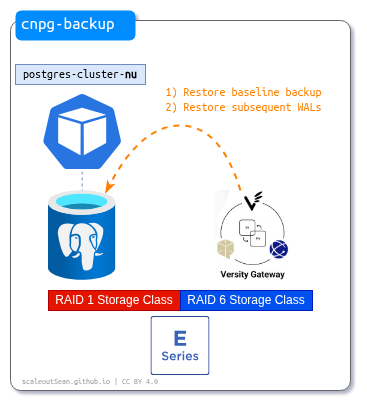
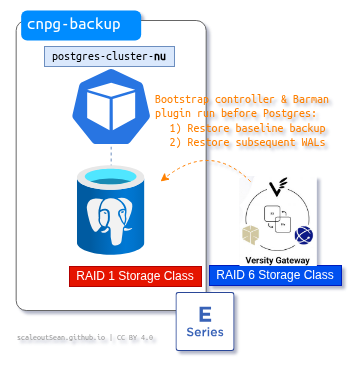
CNPG Barman Cloud - refine, update images

Changed region(s): [[0.0, 0.0, 0.9805, 0.9864]]

diff --git a/docs/2026/06/03/cloud-native-postgres-kubernetes-netapp-eseries-backup-restore.html b/docs/2026/06/03/cloud-native-postgres-kubernetes-netapp-eseries-backup-restore.html
@@ -212,7 +212,7 @@
       <span class="page__meta-readtime">
         <i class="far fa-clock" aria-hidden="true"></i>
         
-          12 minute read
+          13 minute read
         
       </span>
     
@@ -269,7 +269,7 @@
   <li>Versity Gateway 1v.5.0 (S3)</li>
 </ul>
 
-<p>My initial approach used SolidFire CSI, Versity S3 in its own namespace. <code class="language-plaintext highlighter-rouge">cert-manager</code> is required by CNPG. The CNPG "system" namespace runs CNPG control. <code class="language-plaintext highlighter-rouge">cnpg-backup</code> is where the databases run, and where backup and restore will happen.</p>
+<p>My initial approach used SolidFire CSI, Versity S3 in its own namespace. <code class="language-plaintext highlighter-rouge">cert-manager</code> is required by Barman Plugin. The <code class="language-plaintext highlighter-rouge">cnpg-system</code> namespace runs CNPG controller and Barman Cloud plugin, and <code class="language-plaintext highlighter-rouge">cnpg-backup</code> is where the databases run, and where backup and restore will happen.</p>
 
 <div class="language-sh highlighter-rouge"><div class="highlight"><pre class="highlight"><code><span class="nv">$ </span>kubectl get ns
 NAME                   STATUS   AGE
@@ -312,9 +312,9 @@ pod/cluster-example-1   2/2     Running   0          119m
   <li>Requires backup to object store ("backup to cloud"; other generic Barman approaches can't work)</li>
 </ul>
 
-<p>So, database administrator can restore (or make a clone) a database cluster (single or multi-instance) to any point in time available on timeline; there are no snapshot schedules, just a periodic full baseline backup schedule (say, on Sundays or nightly).</p>
+<p>So, the database administrator can restore (or make a clone of) a database cluster, single or multi-instance, to any point in time available on Barman Cloud timeline and stored on S3. There are no "snapshot schedules", there's just just a periodic full baseline backup schedule (say, on Sundays or nightly).</p>
 
-<p>Assuming this sounds cool, and you want to switch from CSI snapshots (or use this <em>in addition</em> to CSI snapshots) what does that mean for your E-Series?</p>
+<p>Assuming this sounds appealing, and you want to switch from CSI snapshots (or use this <em>in addition</em> to CSI snapshots) what does that mean for your E-Series?</p>
 
 <p>It means more work for it. All WAL logs must be streamed, which amplifies the write workload that's creating WAL data by doing an equal amount of reads (on WAL files) to ship WAL files to Barman.</p>
 
@@ -322,12 +322,12 @@ pod/cluster-example-1   2/2     Running   0          119m
 
 <p>As we've mentioned, periodically (weekly or nightly) we may stream the <em>entire</em> database to S3 to create a new baseline backup.</p>
 
-<p>And finally, write performance on <em>restore</em> becomes very important - the faster you write to restore target PVC, the sooner you restore. Especially if you're restoring an entire database (which may be a multi-instance cluster with 2-3 PostgreSQL instances, each with own PVC(s)) and not just getting selected WAL files or baseline backup:</p>
+<p>And finally, read and write performance during <em>restores</em> becomes very important - the faster you read from S3, the faster you can write to restore target PVC and the sooner you restore. Especially if you're restoring an entire database - which may be a multi-instance cluster with 2-3 PostgreSQL instances, each with own PVC(s) - and not just getting selected WAL files or downloading selected baseline backup:</p>
 
 <ul>
   <li>read compressed data from S3 at 500-1,000 MB/s</li>
   <li>restore data to single volume PVC at &gt; 1,500 MB/s (or 3-4 GB/s for multi-instance CNPG clusters)</li>
-  <li>do not interfere with other workloads and ongoing Barman Cloud backups</li>
+  <li>avoid interfering with other workloads and ongoing Barman Cloud backups</li>
 </ul>
 
 <p>Not all arrays can easily handle such workloads even with plenty of disks. It's reasonably safe to say that, if you can't read data from a PVC faster than 2 GiB/s, that baseline backup of a 2 TiB-sized database will take more than 1,000 seconds, while users complain about slow queries.</p>
@@ -336,7 +336,7 @@ pod/cluster-example-1   2/2     Running   0          119m
 
 <p><img src="/assets/images/cnpg-barman_01_restore-workflow.png" alt="CNPG-I with Barman plugin" /></p>
 
-<p>(Actual restore process is not very simple; there's the usual magic of temporary pods that download all data from S3 backup bucket - a baseline backup plus all subsequent WAL files up to required point-in-time - and run a restore, then PostgreSQL init needs to change ownership of restored data and finally can start.)</p>
+<p>The restore process is not very simple; there's the usual magic of temporary pods that download all data from S3 backup bucket - a baseline backup plus all subsequent WAL files up to required point-in-time - and run a restore, then PostgreSQL init needs to change ownership of restored data and finally can start. You can find more about it in the Barman Cloud plugin documentation.</p>
 
 <p>Most of these are "extra" workloads that we mentioned in this section don't appear in CSI snapshot workflows. There, we take a snapshot, create a read-only clone from it, and use a Data Mover to read data off that clone and copy it to S3. This is why array performance is important for anyone using CNPG backup-to-cloud plugin this way.</p>
 
@@ -519,13 +519,13 @@ Events:                          &lt;none&gt;
 
 <p>Going with our "latest" approach:</p>
 
-<div class="language-sh highlighter-rouge"><div class="highlight"><pre class="highlight"><code><span class="nv">$ </span> kubectl apply <span class="nt">-f</span> /home/sean/code/eseries/kubernetes/postgresql_plugin_backup/restore.yaml <span class="nt">-n</span> cnpg-backup
+<div class="language-sh highlighter-rouge"><div class="highlight"><pre class="highlight"><code><span class="nv">$ </span>kubectl apply <span class="nt">-f</span> /home/sean/code/eseries/kubernetes/postgresql_plugin_backup/restore.yaml <span class="nt">-n</span> cnpg-backup
 cluster.postgresql.cnpg.io/cluster-restore created
 </code></pre></div></div>
 
 <p>This multi-step process takes a while. <code class="language-plaintext highlighter-rouge">cluster-example-1</code> is our existing cluster, while <code class="language-plaintext highlighter-rouge">cluster-restore-1-full-recovery</code> is where database restore is happening.</p>
 
-<div class="language-sh highlighter-rouge"><div class="highlight"><pre class="highlight"><code><span class="nv">$ </span> kubectl get pods <span class="nt">-n</span> cnpg-backup <span class="nt">-w</span>
+<div class="language-sh highlighter-rouge"><div class="highlight"><pre class="highlight"><code><span class="nv">$ </span>kubectl get pods <span class="nt">-n</span> cnpg-backup <span class="nt">-w</span>
 NAME                                    READY   STATUS     RESTARTS   AGE
 cluster-example-1                       2/2     Running    0          51m
 cluster-restore-1-full-recovery-g5w6v   0/2     Init:0/2   0          6s
@@ -540,7 +540,7 @@ cluster-restore-1-full-recovery-g5w6v   2/2     Running           0          52s
 
 <p>If you look at the logs of that pod, you can see those different steps mentioned earlier.</p>
 
-<div class="language-sh highlighter-rouge"><div class="highlight"><pre class="highlight"><code><span class="nv">$ </span> kubectl logs <span class="nt">-n</span> cnpg-backup cluster-restore-1-full-recovery-g5w6v
+<div class="language-sh highlighter-rouge"><div class="highlight"><pre class="highlight"><code><span class="nv">$ </span>kubectl logs <span class="nt">-n</span> cnpg-backup cluster-restore-1-full-recovery-g5w6v
 Defaulted container <span class="s2">"full-recovery"</span> out of: full-recovery, bootstrap-controller <span class="o">(</span>init<span class="o">)</span>, plugin-barman-cloud <span class="o">(</span>init<span class="o">)</span>
 <span class="o">{</span><span class="s2">"level"</span>:<span class="s2">"info"</span>,<span class="s2">"ts"</span>:<span class="s2">"2026-06-03T08:42:27.952342373Z"</span>,<span class="s2">"msg"</span>:<span class="s2">"Starting webserver"</span>,<span class="s2">"logging_pod"</span>:<span class="s2">"cluster-restore-1-full-recovery"</span>,<span class="s2">"address"</span>:<span class="s2">"localhost:8010"</span>,<span class="s2">"hasTLS"</span>:false<span class="o">}</span>
 <span class="o">{</span><span class="s2">"level"</span>:<span class="s2">"info"</span>,<span class="s2">"ts"</span>:<span class="s2">"2026-06-03T08:42:28.054560343Z"</span>,<span class="s2">"msg"</span>:<span class="s2">"Restore through plugin detected, proceeding..."</span>,<span class="s2">"logging_pod"</span>:<span class="s2">"cluster-restore-1-full-recovery"</span><span class="o">}</span>
@@ -578,11 +578,11 @@ persistentvolumeclaim/cluster-restore-1   Bound    pvc-99c2a755-9122-4b80-8e08-a
   <li>If you use Versity S3 Gateway and have a hybrid (SSD/HDD) E-Series, you can put S3 data on a NL-SAS-based DDP with a RAID 6 Storage Class</li>
 </ul>
 
-<p>As you could see in <a href="/2026/06/01/cloud-native-postgres-kuberntes-netapp-eseries-perf.html">the performance post</a>, it's easy to get more than 1 GB/s from a PostgreSQL instance (even on a NVMe DDP with a RAID 6-backed SC). We also saw <a href="/2026/03/01/proxmox-pve-with-netapp-eseries.html#simple-sequential-workload">in other posts</a> that multiple GB/s can be achieved on a single volume. Assuming 800 MB/s restore performance <a href="/2026/06/01/cloud-native-postgres-kuberntes-netapp-eseries-perf.html#appendix-a-test-with-64-clients-and-postgres-on-the-same-node">seen in the CNPG performance post</a>, that means we need just 20 minutes to restore a 1 TiB database in full without losing almost no data.</p>
+<p>As you could see in <a href="/2026/06/01/cloud-native-postgres-kuberntes-netapp-eseries-perf.html">the performance post</a>, it's easy to get more than 1 GB/s from a PostgreSQL instance (even on a NVMe DDP with a RAID 6-backed SC). We also saw <a href="/2026/03/01/proxmox-pve-with-netapp-eseries.html#simple-sequential-workload">in other posts</a> that multiple GB/s can be achieved on a single volume. Assuming 800 MB/s restore performance <a href="/2026/06/01/cloud-native-postgres-kuberntes-netapp-eseries-perf.html#appendix-a-test-with-64-clients-and-postgres-on-the-same-node">seen in the CNPG performance post</a>, that means we need just 20 minutes to restore a 1 TiB database in full without losing almost no transactions.</p>
 
-<p>Let's not forget that CNPG could have an independent replica server, so we wouldn't necessarily have to restore anything if the primary server failed.</p>
+<p>Let's not forget that CNPG could have an independent replica server, so we wouldn't necessarily have to restore anything if the primary server failed - as we saw in Part One, replica would take over in 35 seconds (unplanned) or much less (planned switch-over).</p>
 
-<p>Also let's not forget that this gives us not just backups, but Business Continuity and DR, too, which is virtually <a href="https://docs.netapp.com/us-en/e-series-santricity/sm-mirroring/requirements-for-using-asynchronous-mirroring.html?q=minutes+replication#supported-connections">impossible</a> with E-Series as of now:</p>
+<p>Also let's not forget that the CNPG approach gives us not just backups, but Business Continuity and Disaster Recovery, too, which is virtually <a href="https://docs.netapp.com/us-en/e-series-santricity/sm-mirroring/requirements-for-using-asynchronous-mirroring.html?q=minutes+replication#supported-connections">impossible</a> with E-Series as of now:</p>
 
 <ul>
   <li>There's no async replication for E4000 with iSCSI, for example</li>
@@ -604,13 +604,13 @@ persistentvolumeclaim/cluster-restore-1   Bound    pvc-99c2a755-9122-4b80-8e08-a
 
 <p>Not only does it solve those problems, but it does so in ways that are highly complementary to what E-Series does - reliable, high-performance block targets that lower risks of losing cluster nodes and minimize risk.</p>
 
-<p>By default, SANtricity reserves 40% of base volume capacity for snapshots. With CNPG-I, we can completely eliminate CSI snapshots, or maybe reserve 5% and run a schedule that takes a snapshot every 5 minutes. You save 20-30% of NVMe capacity with log shipping and if the S3 bucket has Object Lock enabled, those database backups are indestructible.</p>
+<p>By default, SANtricity reserves 40% of base volume capacity for snapshots. With CNPG-I, we can completely eliminate CSI snapshots, or maybe reserve 5% and run a schedule that takes a snapshot every 5 minutes. You save 20-30% of NVMe capacity with log shipping and with S3 bucket located outside the cluster has Object Lock enabled, those database backups are practically indestructible.</p>
 
 <p>If a disaster strikes, CNPG can bring up replica node within seconds (see the first post in this series) and if that's not possible, you still have near 0 RPO based on backups in object store. Then, if you don't mind losing up to 5 minutes of transactions, you can still get a quick in-place restore with a snapshot rollback, or - alternatively - spend 10-20 minutes to do a full restore and recover virtually all transactions from S3 (which seems like a better deal to me, but that also depends on situation).</p>
 
 <p>Before HA CSI drivers for E-Series existed, one could use something like TopoLVM CSI and run CPNG clusters with replicas for HA, which was fine but sometimes expensive. Now we can choose - replicated or single instance database that can be restarted from another Kubernetes node without putting a lot at risk - and E-Series can easily handle the extra workload of continuous backup and on-demand restores.</p>
 
-<p>I don't know much about Barman and CNPG, but I can tell this is a perfect match for E-Series.</p>
+<p>I don't know much about Barman and CNPG, but I can easily tell this is a perfect match for E-Series, and I hope to illustrate that with some backup &amp; restore examples with SANtricity CSI in the coming days.</p>
 
         
       </section>

diff --git a/docs/categories/index.html b/docs/categories/index.html
@@ -15366,7 +15366,7 @@
       <span class="page__meta-readtime">
         <i class="far fa-clock" aria-hidden="true"></i>
         
-          12 minute read
+          13 minute read
         
       </span>
     
@@ -44602,7 +44602,7 @@
       <span class="page__meta-readtime">
         <i class="far fa-clock" aria-hidden="true"></i>
         
-          12 minute read
+          13 minute read
         
       </span>
     
@@ -56268,7 +56268,7 @@
       <span class="page__meta-readtime">
         <i class="far fa-clock" aria-hidden="true"></i>
         
-          12 minute read
+          13 minute read
         
       </span>
     

diff --git a/docs/archive/index.html b/docs/archive/index.html
@@ -207,7 +207,7 @@
       <span class="page__meta-readtime">
         <i class="far fa-clock" aria-hidden="true"></i>
         
-          12 minute read
+          13 minute read
         
       </span>
     

diff --git a/docs/assets/js/lunr/lunr-store.js b/docs/assets/js/lunr/lunr-store.js
@@ -2478,7 +2478,7 @@ var store = [{
     "excerpt":"About this site Posts by Category Home Page Archive Post Archive Projects Posts by Tag Posts by Year hci kubernetes netapp rancher solidfire github dark mode certificate postman devops plugin provider terraform hcc log logging powershell qos e-series eseries fc fibre channel iscsi performance api python f5 ingress nginx backup...","url": "https://scaleoutsean.github.io/page-archive/"
   },{
     "title": "Post Archive",
-    "excerpt":"Cloud-Native Postgres Backup (Barman) with Kubernetes and NetApp SANtricity 2026-06-03 00:00 12 minute read Notes on barman on Kubernetes from a NetApp E-Series perspective State export script for SolidFire CSI and SolidFire 2026-06-02 00:00 3 minute read Script to assist with SolidFire failover and failback in Kubernetes environments Cloud-Native Postgres...","url": "https://scaleoutsean.github.io/archive/"
+    "excerpt":"Cloud-Native Postgres Backup (Barman) with Kubernetes and NetApp SANtricity 2026-06-03 00:00 13 minute read Notes on barman on Kubernetes from a NetApp E-Series perspective State export script for SolidFire CSI and SolidFire 2026-06-02 00:00 3 minute read Script to assist with SolidFire failover and failback in Kubernetes environments Cloud-Native Postgres...","url": "https://scaleoutsean.github.io/archive/"
   },{
     "title": "Projects",
     "excerpt":"Presentations This is a recent and experimental section added in April 2026. I manually create simple, accessible presentation-like notes in the HTML format for the situations where sharing in the browser is better overall. Presentation Description NetApp E-Series in Proxmox Ecosystem Presentation on NetApp E-Series with Proxmox (PVE, PBS) NetApp...","url": "https://scaleoutsean.github.io/projects.html"

diff --git a/docs/categories/e-series/index.html b/docs/categories/e-series/index.html
@@ -211,7 +211,7 @@
       <span class="page__meta-readtime">
         <i class="far fa-clock" aria-hidden="true"></i>
         
-          12 minute read
+          13 minute read
         
       </span>
     

diff --git a/docs/categories/kubernetes/index.html b/docs/categories/kubernetes/index.html
@@ -211,7 +211,7 @@
       <span class="page__meta-readtime">
         <i class="far fa-clock" aria-hidden="true"></i>
         
-          12 minute read
+          13 minute read
         
       </span>
     

diff --git a/docs/categories/storage/index.html b/docs/categories/storage/index.html
@@ -211,7 +211,7 @@
       <span class="page__meta-readtime">
         <i class="far fa-clock" aria-hidden="true"></i>
         
-          12 minute read
+          13 minute read
         
       </span>
     

diff --git a/docs/index.html b/docs/index.html
@@ -234,7 +234,7 @@
       <span class="page__meta-readtime">
         <i class="far fa-clock" aria-hidden="true"></i>
         
-          12 minute read
+          13 minute read
         
       </span>
     

diff --git a/docs/tags/backup/index.html b/docs/tags/backup/index.html
@@ -211,7 +211,7 @@
       <span class="page__meta-readtime">
         <i class="far fa-clock" aria-hidden="true"></i>
         
-          12 minute read
+          13 minute read
         
       </span>
     

diff --git a/docs/tags/cloudnativepg/index.html b/docs/tags/cloudnativepg/index.html
@@ -211,7 +211,7 @@
       <span class="page__meta-readtime">
         <i class="far fa-clock" aria-hidden="true"></i>
         
-          12 minute read
+          13 minute read
         
       </span>
     

diff --git a/docs/tags/csi/index.html b/docs/tags/csi/index.html
@@ -211,7 +211,7 @@
       <span class="page__meta-readtime">
         <i class="far fa-clock" aria-hidden="true"></i>
         
-          12 minute read
+          13 minute read
         
       </span>
     

diff --git a/docs/tags/database/index.html b/docs/tags/database/index.html
@@ -211,7 +211,7 @@
       <span class="page__meta-readtime">
         <i class="far fa-clock" aria-hidden="true"></i>
         
-          12 minute read
+          13 minute read
         
       </span>
     